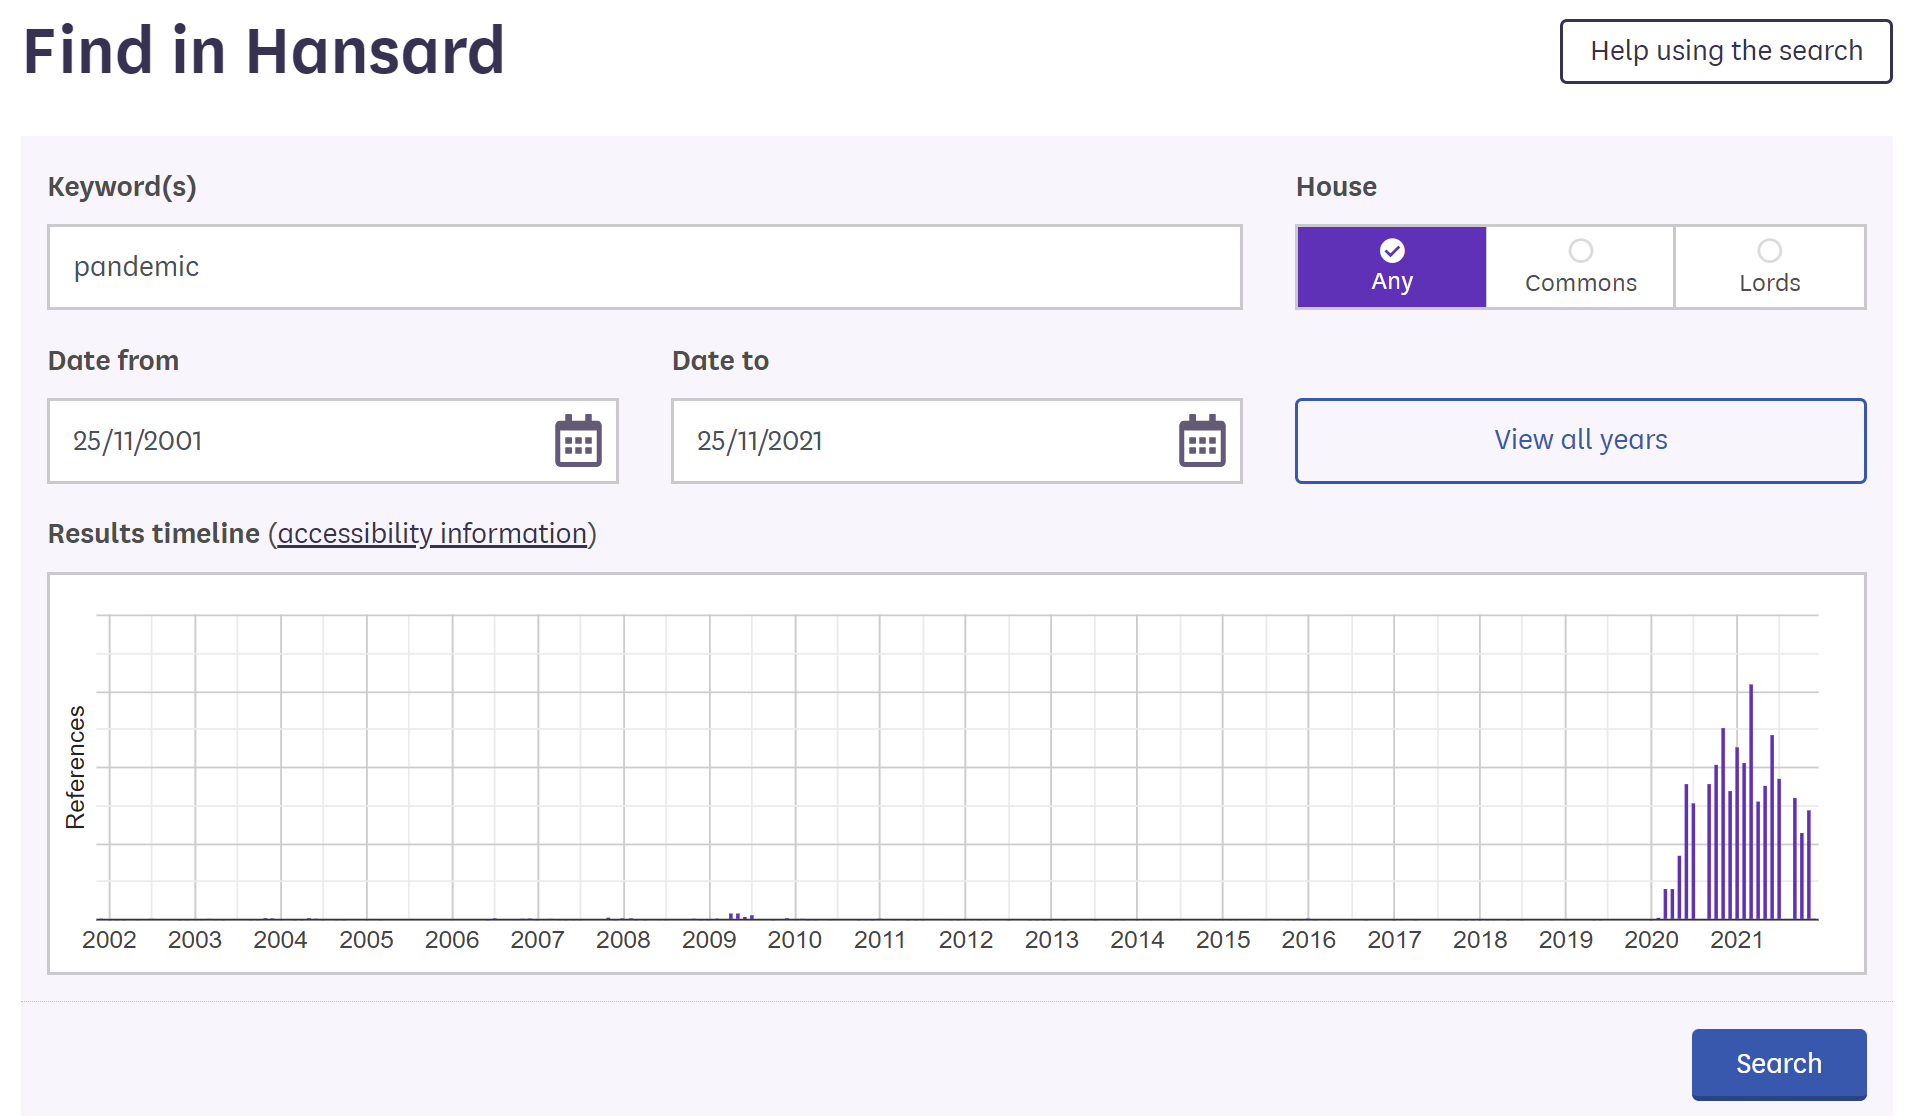
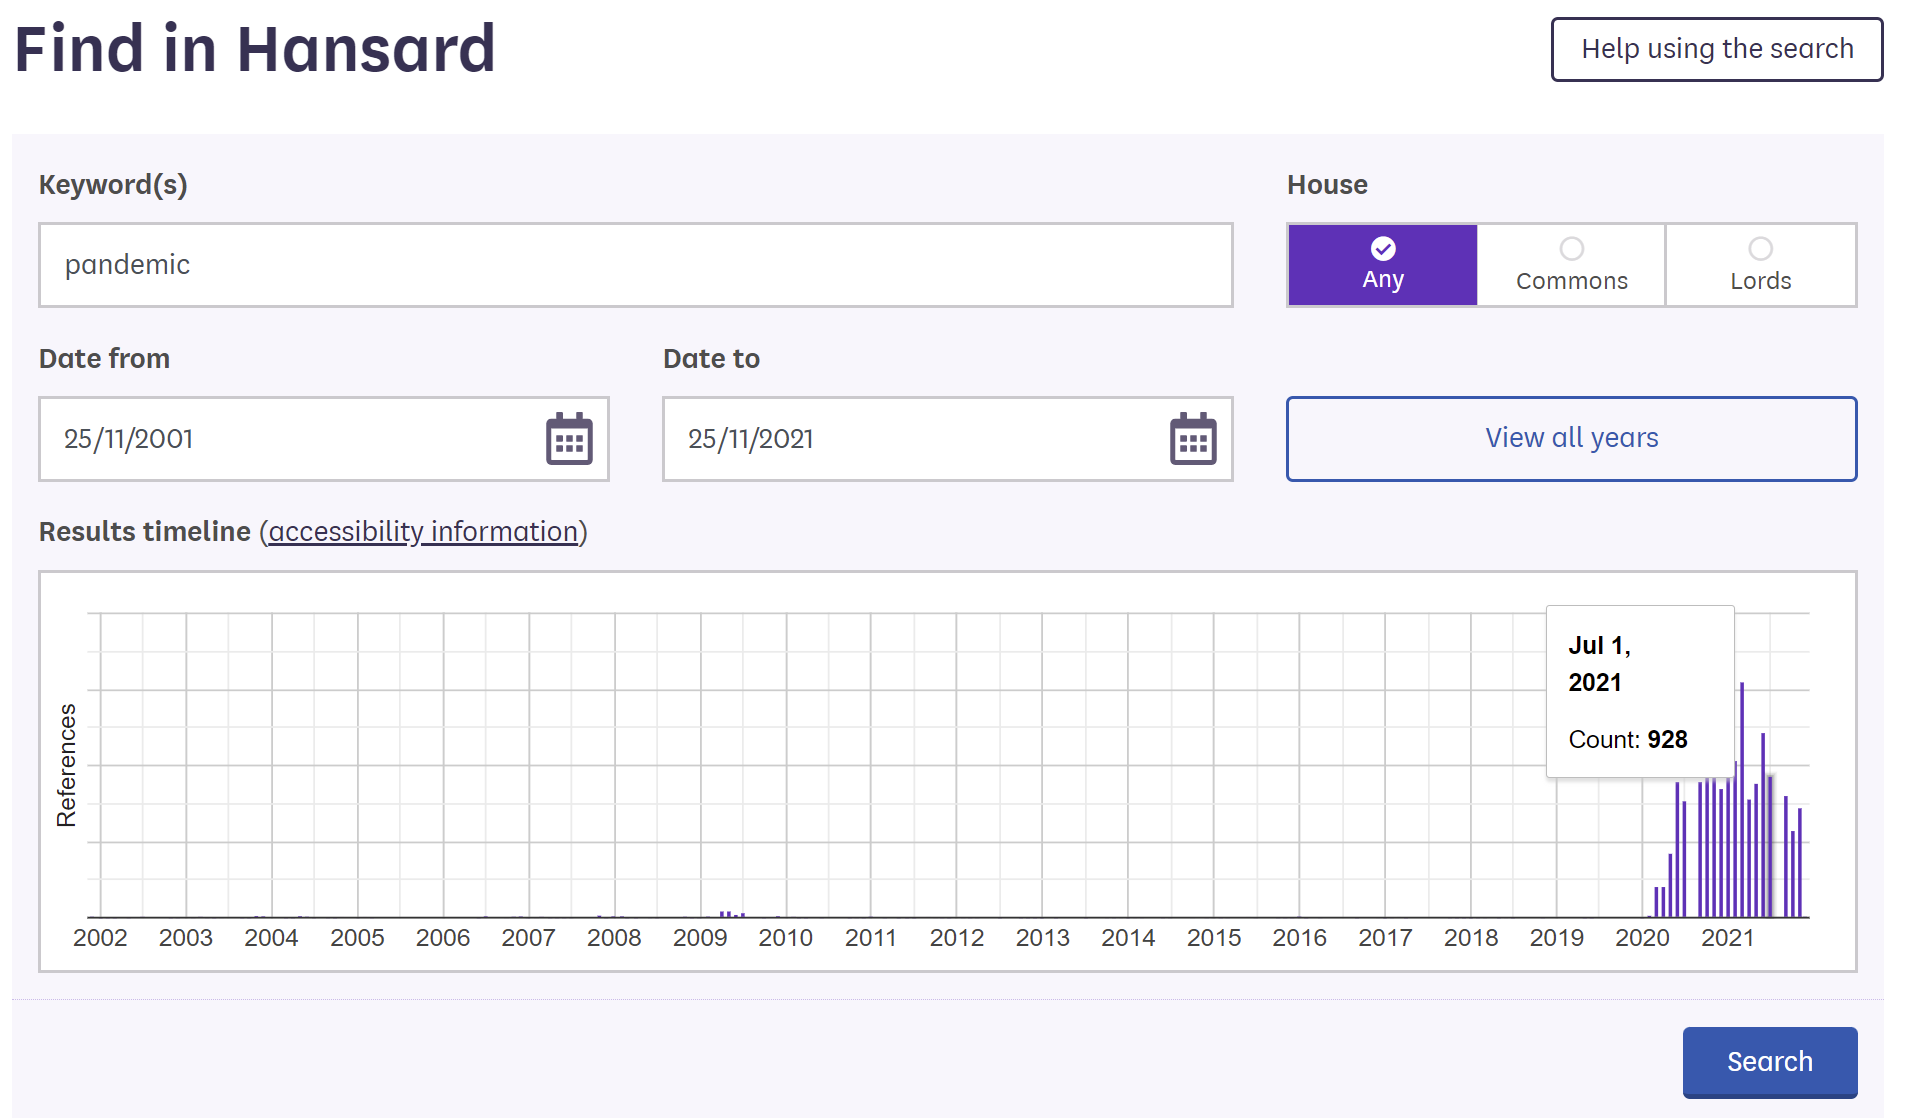
a new blog

diff --git a/_posts/2021-11-23-About-Hansard.md b/_posts/2021-11-23-About-Hansard.md
@@ -27,6 +27,7 @@ Considering Hansard is the archive of speeches and debates, it is also a good re
 
 ## 3. How does Hansard supports my research?
 
+### Search from each house of the Parliament
 On the homepage of Hansard, visitors can see the two major categories of Hansard, the category of House of Commons and that of House of Lords. Visitors can check the sittings, debates, voting results and MPs of each House.
 
 ![party-contrast](https://jl-xie-kcl.github.io/blog20211123/illustrations/Hansard/party-contrast.png)
@@ -35,6 +36,7 @@ The records accessed from each House are in chronological order, the latest reco
 
 ![chronological](https://jl-xie-kcl.github.io/blog20211123/illustrations/Hansard/chronological.png)
 
+### Search using the search column
 However, sometimes search from chronological order is not the most convenient approach. On the homepage, there is a search column for more specific research above the links of Houses. After a research enters a keyword to search, they can:
 
 - utilise the filter of House and date for receive more accurate results;
@@ -43,11 +45,6 @@ However, sometimes search from chronological order is not the most convenient ap
 ![barchart](https://jl-xie-kcl.github.io/blog20211123/illustrations/Hansard/barchart.png)
 *The frequency of the keyword "pandemic" appearing in UK Parliament records from 25/11/2001 to 25/11/2021.*
 
+When you mouse moves to a bar, you can see the specific frequency of the keyword appeared on a certain day.
 
-By searching a certain word in the search column, researchers can see how many times a word is mentioned in a certain year.
-
-```
-![party-contrast](https://jl-xie-kcl.github.io/blog20211123/illustrations/Hansard/party-contrast.png)
-
-![chronological](https://jl-xie-kcl.github.io/blog20211123/illustrations/Hansard/chronological.png)
-```
+When the keyword is a certain Member, visitor can see his/her contributions. One can also use "spokenby" function to search a certain speech by a specific member.
